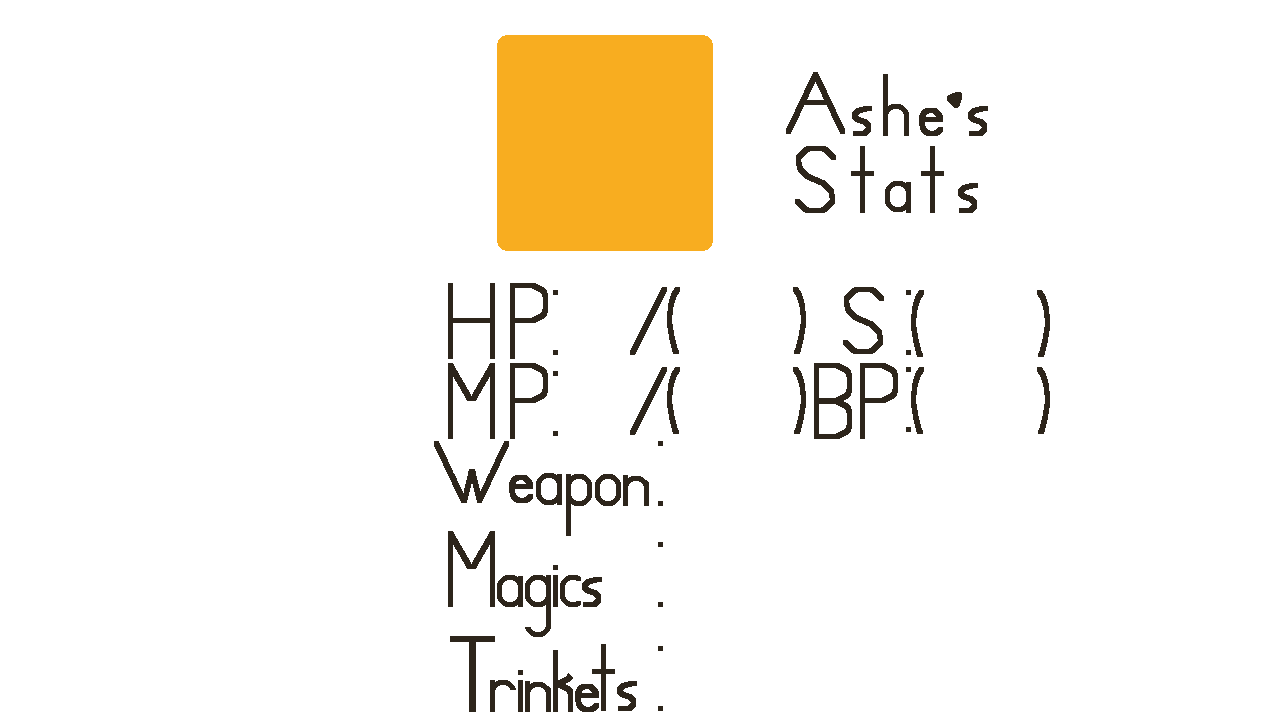
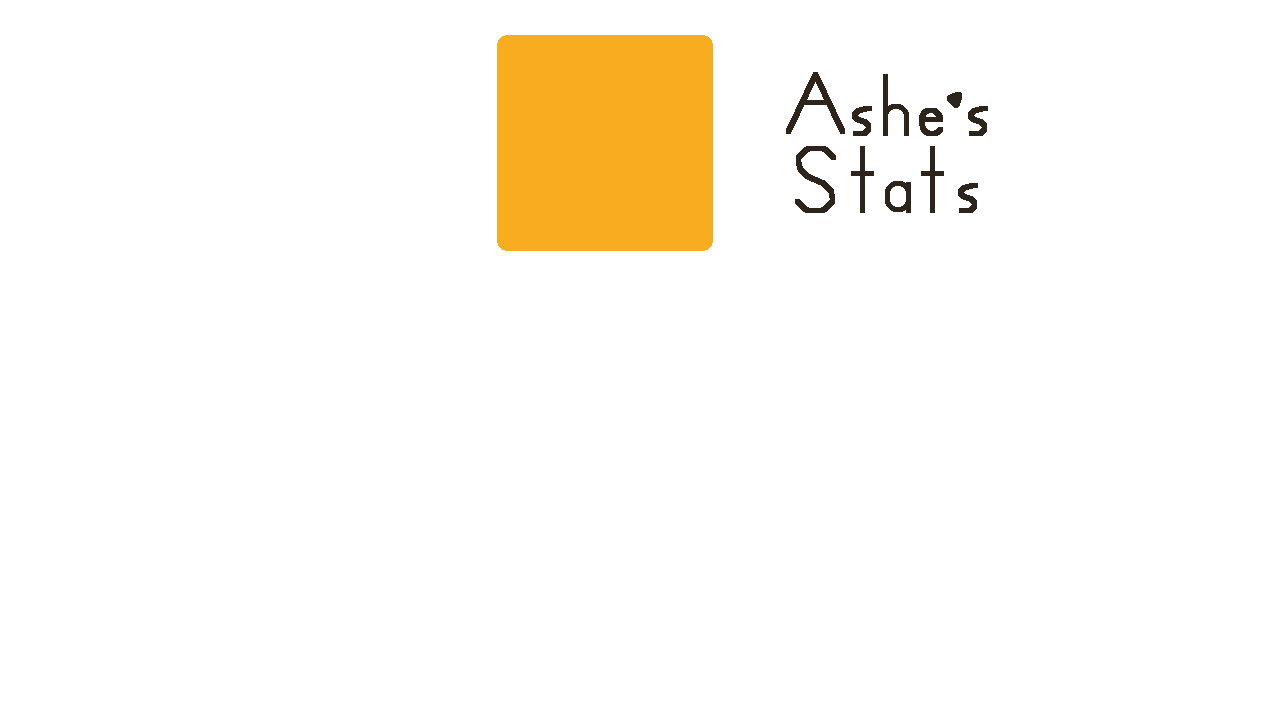
added more to the profile page

diff --git a/UtFoM_Project2/Assets/Scripts/Stats.cs b/UtFoM_Project2/Assets/Scripts/Stats.cs
@@ -32,6 +32,11 @@ public class Stats : MonoBehaviour
     public float CurrentLifeblood { get; set; } = -1; // Defaulted for Start method logic
     [SerializeField] private float BaseLifebloodRegen;
 
+    [Header("Trinket")]
+    [SerializeField] protected internal float OriginalTrinket;
+    public float MaxTrinket { get; set; }
+    public float CurrentTrinket { get; set; } = -1; // Defaulted for Start method logic
+
     // Script References
     private StatusMod StatusModScript; // Used only to inflict exhaust
     private StateManager StateManagerScript;
@@ -48,6 +53,8 @@ public class Stats : MonoBehaviour
     [SerializeField] private float RuntimeCurrentMana;
     [SerializeField] private float RuntimeMaxLifeblood;
     [SerializeField] private float RuntimeCurrentLifeblood;
+    [SerializeField] private float RuntimeMaxTrinket;
+    [SerializeField] private float RuntimeCurrentTrinket;
 
     /// <summary>
     /// Updates the Runtime variables for debugging purposes when DisplayRuntimeValues is true
@@ -66,6 +73,8 @@ public class Stats : MonoBehaviour
             RuntimeCurrentMana = CurrentMana;
             RuntimeMaxLifeblood = MaxLifeblood;
             RuntimeCurrentLifeblood = CurrentLifeblood;
+            RuntimeMaxTrinket = MaxTrinket;
+            RuntimeCurrentTrinket = CurrentTrinket;
         }
     }
 
@@ -350,6 +359,13 @@ public class Stats : MonoBehaviour
         if (CurrentLifeblood == -1)
         {
             CurrentLifeblood = MaxLifeblood;
+        }
+
+        // Set Trinket Points
+        MaxTrinket = OriginalTrinket;
+        if (CurrentTrinket == -1)
+        {
+            CurrentTrinket = MaxTrinket;
         }
 
         // Retrieve Script References

diff --git a/UtFoM_Project2/Assets/Scripts/ActivePageManager.cs b/UtFoM_Project2/Assets/Scripts/ActivePageManager.cs
@@ -1,0 +1,30 @@
+using System.Collections;
+using System.Collections.Generic;
+using UnityEngine;
+using UnityEngine.UI;
+
+public class ActivePageManager : MonoBehaviour
+{
+    private PlayerController MainPlayer;
+    private Stats MainStats;
+    private Inventory MainInventory;
+    public Text DynamicText;
+
+    // Start is called before the first frame update
+    void Start()
+    {
+        MainPlayer = FindObjectOfType<PlayerController>();
+        MainStats = MainPlayer.GetComponent<Stats>();
+        MainInventory = MainPlayer.GetComponent<Inventory>();
+    }
+
+    // Update is called once per frame
+    void FixedUpdate()
+    {
+        DynamicText.text = "HP: " + MainStats.CurrentHealth.ToString() + "/(" + MainStats.MaxHealth.ToString()
+            + "+" + "0" + ")    " + "SP: (" + MainStats.MaxStamina.ToString() + "+" + "0" + ")" + "\n" +
+            "MP: " + MainStats.CurrentMana.ToString() + "/(" + MainStats.MaxMana.ToString()+ "+" + "0" +  
+            ")    " + "TP: " + "(" + MainStats.MaxTrinket.ToString() + "+" + "0" + ")" + "\n" + "Current Weapon: "
+            + MainInventory.EquippedWeapon.Name + "\n" + "Spells: " + "\n" + "Trinkets: " + "\n" + "Current Quest: ";
+    }
+}
